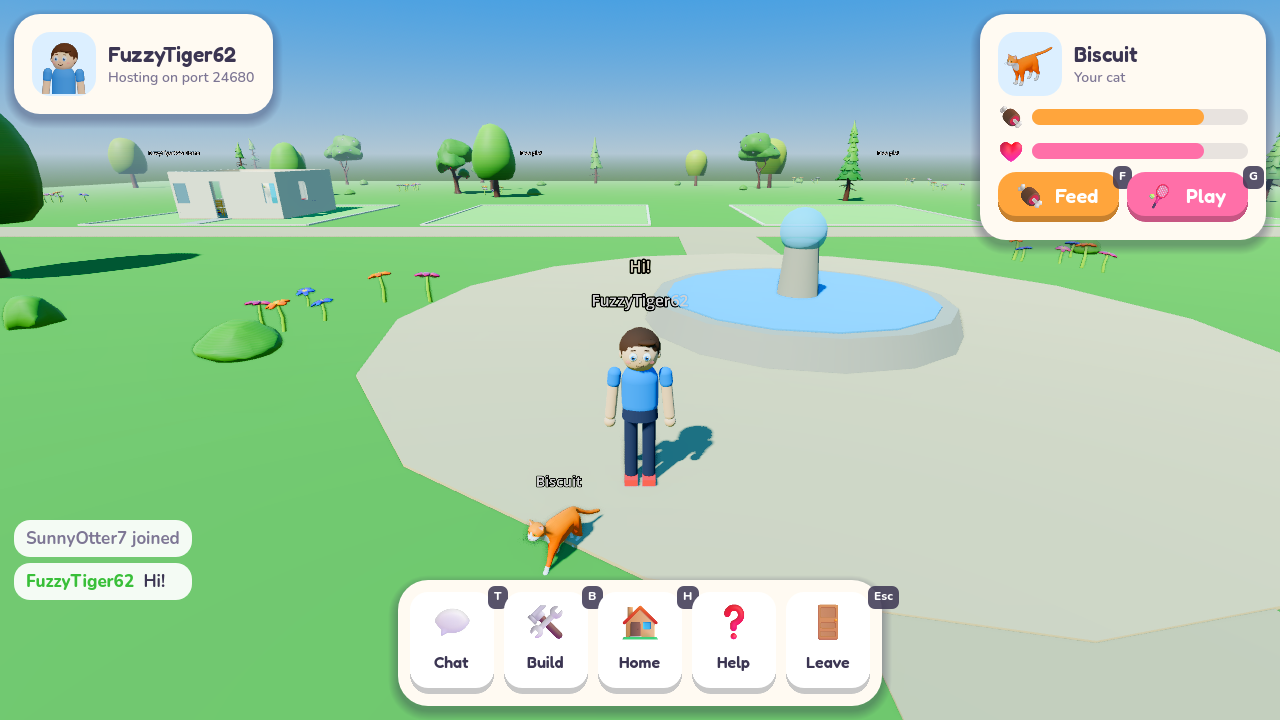
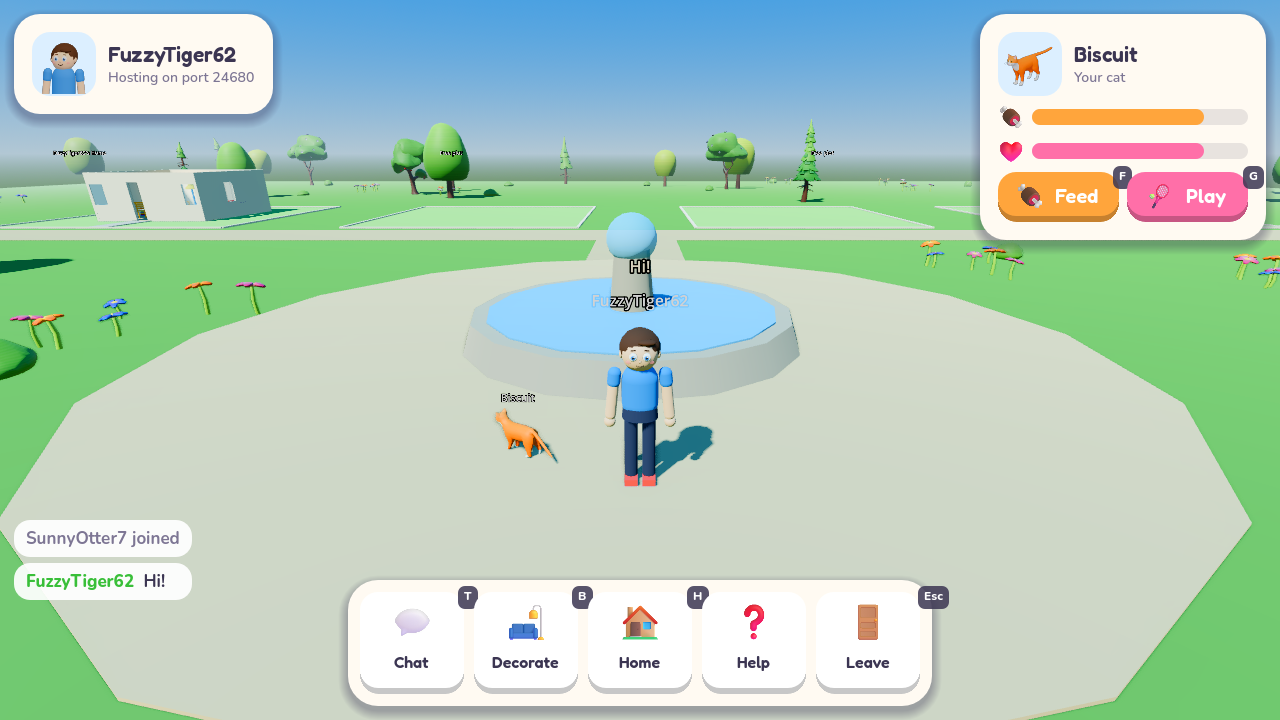
Make homes decorate-only: no placing or removing walls and floors
Homes are now ready-built and players decorate them with furniture, so
the Walls & Floors tab is gone from the catalog and remove only takes
furniture. Build mode is called "Decorate" on screen (the B key is the
same), and the dock buttons share one width.

Claude-Session: https://claude.ai/code/session_01HCWxQDeHMm1BtjTSHLmFwd

diff --git a/README.md b/README.md
@@ -4,7 +4,7 @@ An original online 3D neighborhood game for kids, built with **Godot 4.7+** (GDS
 Style your character, build and decorate your own home, and bring your pet everywhere.
 
 ![Character creator](docs/menu.png)
-![Build mode catalog](docs/home.png)
+![Decorating catalog](docs/home.png)
 ![In the neighborhood](docs/world.png)
 
 ## Play in your browser
@@ -37,16 +37,16 @@ Everything has a big on-screen button too, with its key shown in a small badge, 
 | Right mouse drag / wheel | Look around / zoom |
 | F / G | Feed / play with your pet |
 | T | Quick chat (preset phrases) |
-| B | Build mode (left click place, right click or the wastebasket removes, R turn, E next look) |
+| B | Decorate your home (left click place, right click or the wastebasket removes, R turn, E next look) |
 | H | Go to your home |
-| Esc | Close a window, then leave build mode, then ask before leaving the world |
+| Esc | Close a window, then stop decorating, then ask before leaving the world |
 
 ## What's in the prototype
 
 - **Kid-friendly UI**: one shared look (rounded cards, chunky buttons, color icons, two friendly fonts)
   with big tap targets and pictures instead of words wherever possible. Every option in the creator and
   every catalog item shows a rendered 3D picture of itself.
-- **Build catalog made for big art packs**: category tabs, "All / Sofas / Lamps" chips, search,
+- **Decorating catalog made for big art packs**: category tabs, "All / Sofas / Lamps" chips, search,
   a Favorites tab (tap the star) and a Recently used tab, with paged picture cards. Only the visible page
   is built and its pictures render in the background (and are cached on disk), so it stays quick with
   the whole 800+ model furniture pack loaded.
@@ -57,9 +57,9 @@ Everything has a big on-screen button too, with its key shown in a small badge, 
 - **Pets**: cats and kittens, dogs and birds in 19 animated coats, plus a bunny and a dragon in any colors,
   each with a name. Pets follow you, walk and run, wander when you stand still, react when fed or played
   with, and have fullness and happiness that slowly drop.
-- **Houses**: each player gets a 12×12 plot with a furnished starter house. Build mode places floors,
-  walls, windows, doorways and fences in any color, and 18 kinds of furniture (beds, sofas, a fridge, a
-  bathtub, an arcade machine and more), most in several styles. Homes save automatically.
+- **Houses**: each player gets a 12×12 plot with a ready-built, furnished house. Players decorate it
+  with 18 kinds of furniture (beds, sofas, a fridge, a bathtub, an arcade machine and more), most in
+  several styles; the walls and floors stay as built. Homes save automatically.
 - **Online play**: up to 8 players in one neighborhood using Godot's high-level multiplayer (ENet).
 - **Kid safety**: no free-text chat or typed names. See [docs/ARCHITECTURE.md](docs/ARCHITECTURE.md#kid-safety).
 

diff --git a/docs/ARCHITECTURE.md b/docs/ARCHITECTURE.md
@@ -78,7 +78,8 @@ Keys must change whenever what they show changes, so avatar pictures include a h
 the page is shown, so 20 items or 2,000 cost the same. `CatalogBrowser` wraps it with category tabs
 (`{id, name, icon}`), group chips and search over entries `{key, name, category, group, thumb, tags}`.
 Build mode lists every furniture style as its own entry (`FurnitureCatalog.entries()`, key `"id:style"`),
-and new furniture just needs a `category` from `FurnitureCatalog.CATEGORIES`. Favorites and recents are
+and new furniture just needs a `category` from `FurnitureCatalog.CATEGORIES`. Walls, floors and fences
+have no category: they belong to the ready-built house, so players can't place or remove them. Favorites and recents are
 stored in the profile by key, are local only, and skip keys that no longer exist. As a stress test,
 `--shot-ui=stress` loads all 818 Bright Furniture prefabs into the build catalog: setup takes about
 30 ms and a page of pictures about 2 seconds the first time.
